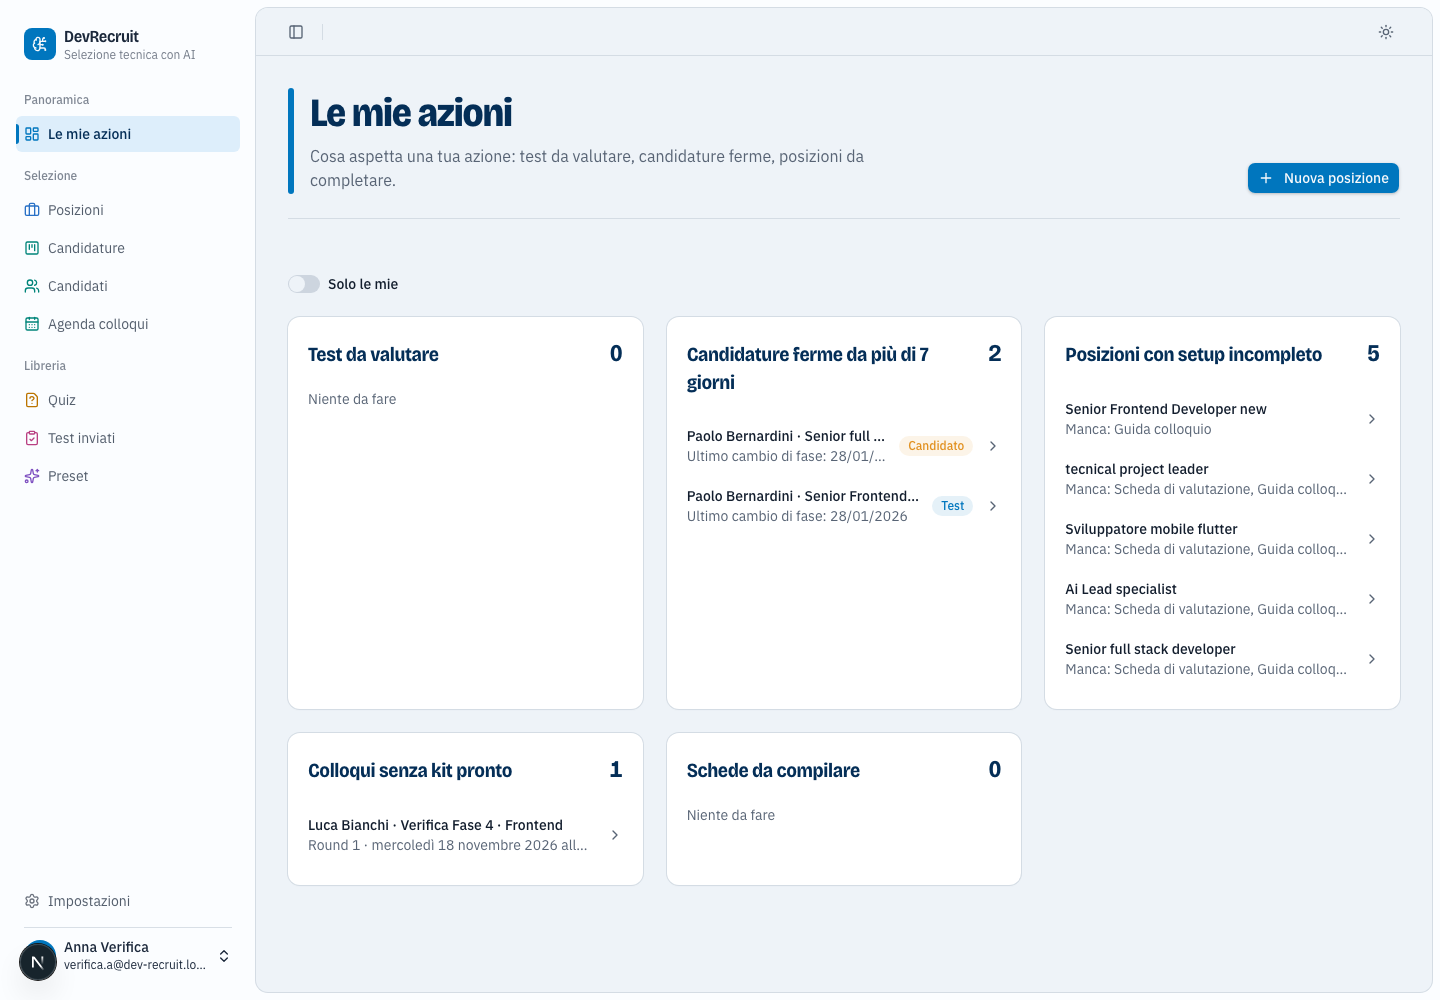
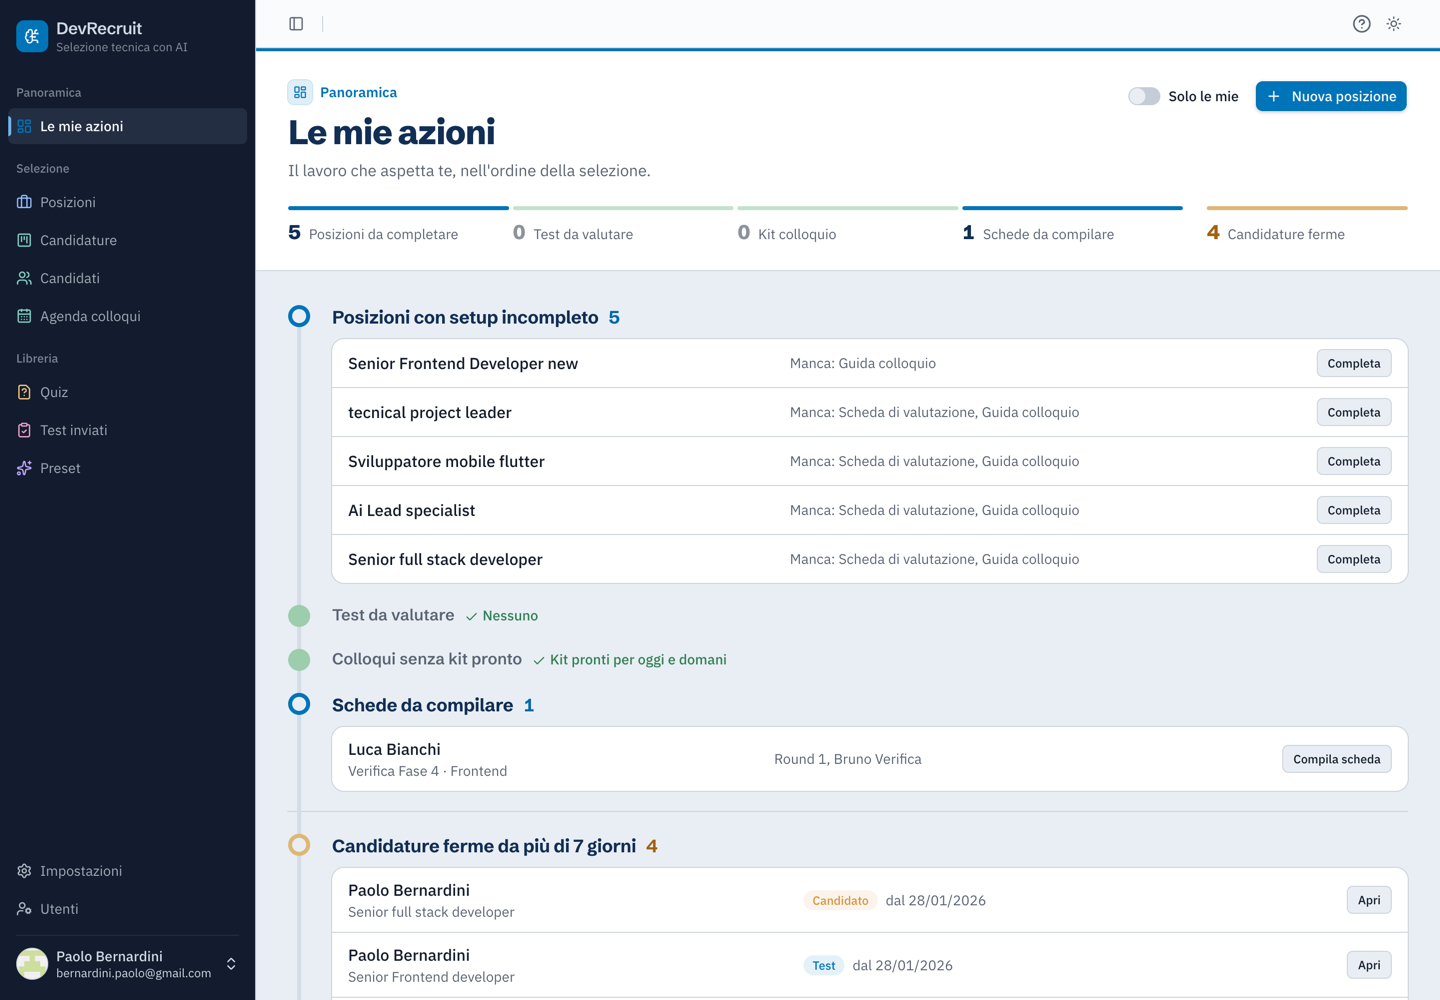
docs: clarify guide actions and candidature flow

diff --git a/components/guide/sections/candidatura.tsx b/components/guide/sections/candidatura.tsx
@@ -86,7 +86,7 @@ export function CandidaturaSection() {
         title="La Prossima azione dice cosa fare"
       >
         <GuideTable
-          head={["Situazione", "Card"]}
+          head={["Situazione", "Prossima azione"]}
           rows={[
             ["CV caricato ma non valutato", <strong key="a">Valuta CV</strong>],
             [
@@ -144,7 +144,7 @@ export function CandidaturaSection() {
         </GuideText>
         <GuideFigure
           src="/guida/07-candidatura-prossima-azione.png"
-          alt="Pagina della candidatura con la card Prossima azione e la cronologia"
+          alt="Pagina della candidatura con la linea delle fasi, la Prossima azione e la cronologia"
           caption="Candidatura: prossima azione e cronologia delle prove"
           width={1440}
           height={1039}

diff --git a/components/guide/sections/giorno-per-giorno.tsx b/components/guide/sections/giorno-per-giorno.tsx
@@ -62,7 +62,10 @@ export function GiornoPerGiornoSection() {
         senza kit pronto, schede da compilare. In alto i numeri di ogni coda
         (un clic porta alla coda); sotto, una fermata per coda con le righe e
         il pulsante dell&apos;azione. Una coda vuota è una riga verde; le
-        candidature ferme stanno a parte, in fondo, in ambra.
+        candidature ferme stanno a parte, in fondo, in ambra. &quot;Solo le
+        mie&quot;, nell&apos;intestazione, lascia le candidature e i test di
+        cui sei responsabile, i colloqui a cui partecipi e le tue schede; le
+        posizioni da completare restano sempre visibili.
       </GuideText>
 
       <GuideFigure

diff --git a/components/guide/sections/mappa.tsx b/components/guide/sections/mappa.tsx
@@ -21,7 +21,7 @@ export function MappaSection() {
             [
               <strong key="1">Le mie azioni</strong>,
               "La homepage operativa: cosa aspetta te",
-              "Test da valutare, candidature ferme da più di 7 giorni, posizioni con setup incompleto, colloqui senza kit pronto, schede da compilare",
+              "Posizioni con setup incompleto, test da valutare, colloqui senza kit pronto, schede da compilare; a parte, le candidature ferme da più di 7 giorni",
             ],
             [
               <strong key="2">Posizioni</strong>,
